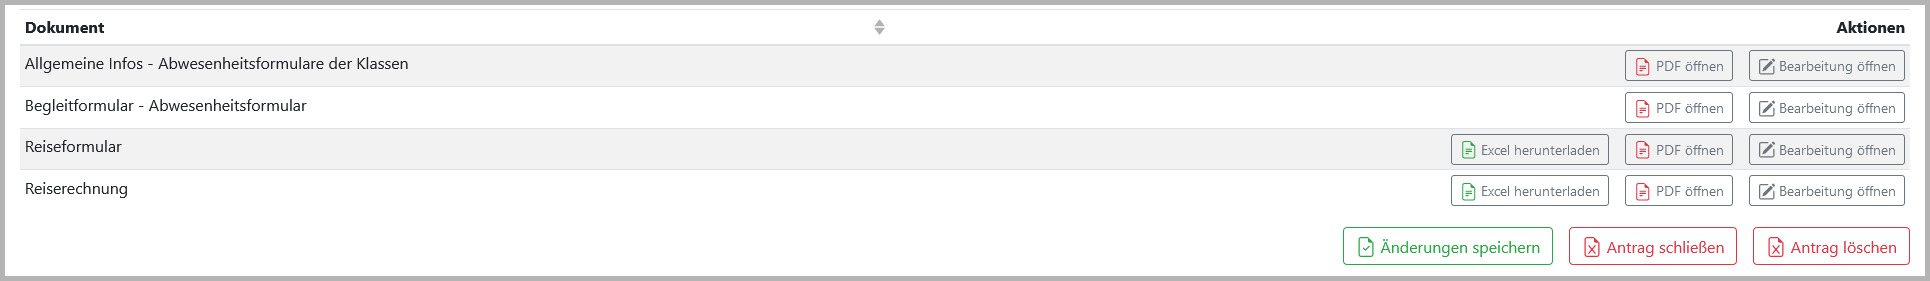
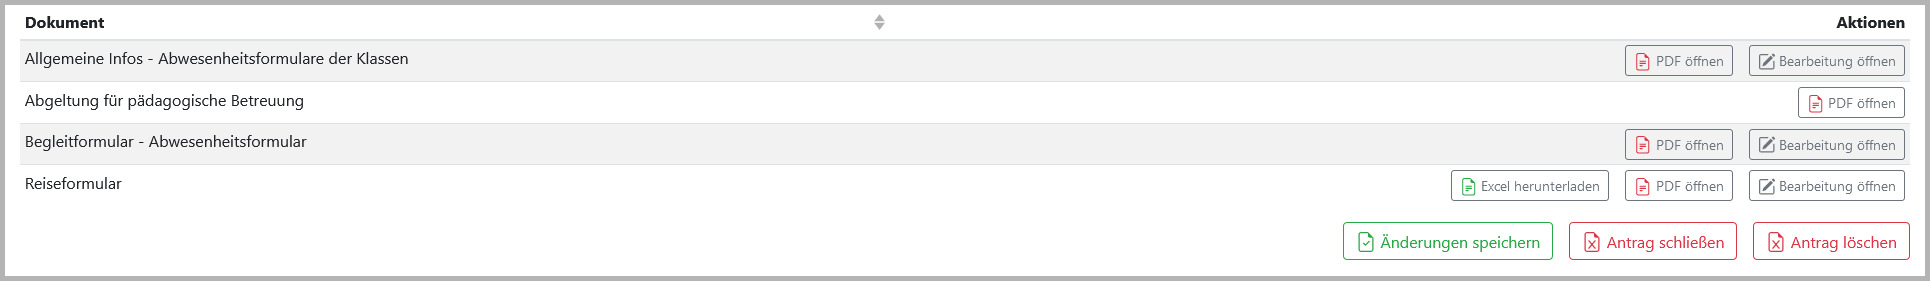
added code and updated pictures; added subsection Antrag einreichen to Antrag erstellen

diff --git a/chapters/implementierung/rfoster.tex b/chapters/implementierung/rfoster.tex
@@ -454,6 +454,19 @@ var data = {		// Das JSON-Objekt mit allen Informationen
 };
 \end{code}
 \captionof{listing}[\textit{JSON} \textit{Sonstiges}-Antrag]{\textit{JSON}-Objekt eines \textit{Sonstiges}-Antrags}~\\
+\subsubsection{Antrag einreichen}
+Sobald der Benutzer auf den "Einreichen"-Knopf drückt, wird das \textit{JSON}-Objekt erstellt und an das Backend gesendet. Dies erfolgt mit folgendem Code:
+\begin{code}{js}
+	axios.post(this.url + "/createApplication", // Es wird eine createApplication-Anfrage an das Backend gesendet
+	{
+		headers: {
+			Authorization: "Basic " + this.token
+		}
+	},
+	data // Der Antrag mit den eingegebenen Daten wird mit der Anfrage gesendet
+	)
+\end{code}
+\captionof{listing}[Antrag einreichen]{Beispiel um einen Antrag im Backend zu erstellen}~\\
 \newpage
 \subsection{Antrag Ansicht}
 \label{sec:antrag_ansicht}
@@ -492,7 +505,25 @@ In einem \textit{Sonstiges}-Antrag werden Informationen über den Grund des Antr
 \paragraph{Reiseformular}~\\
 Ein Reiseformular wird bei den meisten Arten von Antrag erstellt. In einem Reiseformular werden Informationen über den Lehrer und über dessen An- und Abreise gespeichert.
 \paragraph{Reiserechnung}~\\
-Eine Reiserechnung wird bei den meisten Arten von Antrag erstellt. In einer Reiserechnung werden Informationen über die Kosten des Antrags gespeichert und wie diese entstanden sind. Des weiteren können Belege hochgeladen werden, um diese dem Antrag zu hinterlegen.
+Eine Reiserechnung wird bei den meisten Arten von Antrag erstellt. In einer Reiserechnung werden Informationen über die Kosten des Antrags gespeichert und wie diese entstanden sind. Des weiteren können Belege hochgeladen werden, um diese dem Antrag zu hinterlegen. Ein Beleg wird mit folgendem Code hochgeladen:
+\begin{code}{js}
+	axios.post(this.url + "/saveBillingReceipt",
+	{
+		params: {
+			uuid: this.app.uuid, // Der Antrag wird spezifiziert, für den die Belege hochgeladen werden
+			shortname: this.user.short // Es wird der Lehrer spezifiziert, der die Belege hochlädt
+		}
+	},
+	{
+		headers: {
+			Authorization: "Basic " + this.token
+		}
+	},
+	belege // Die Belege, welche hochgeladen werden
+	)
+\end{code}
+\captionof{listing}[Belege hochladen]{Beispiel um Belege hochzuladen}~
+\newpage
 \subsubsection{Aktionen}
 \paragraph{Excel herunterladen}~\\
 Der Benutzer kann Reiseformulare und Reiserechnungen als Excel-Datei herunterladen. Diese werden mit folgendem Code erstellt und heruntergeladen \cite{down_excel}:
@@ -511,8 +542,7 @@ Der Benutzer kann Reiseformulare und Reiserechnungen als Excel-Datei herunterlad
 	exportLinkElement.click();
 	exportLinkElement.remove();
 \end{code}
-\captionof{listing}[Excel Download]{Excel erstellen und herunterladen}~
-\newpage
+\captionof{listing}[Excel Download]{Excel erstellen und herunterladen}~\\
 \paragraph{PDF öffnen}~\\
 Der Benutzer kann die PDFs der Dokumente öffnen. Die PDFs werden in einem neuen Tab im Browser angezeigt.\\
 Mit folgendem Code wird eine PDF erstellt und in einem neuen Tab geöffnet \cite{sof_pdf}:
@@ -530,13 +560,54 @@ Mit folgendem Code wird eine PDF erstellt und in einem neuen Tab geöffnet \cite
 	"#toolbar=0\&navpanes=0\&scrollbar=0'></embed></body></html>"
 	);
 \end{code}
-\captionof{listing}[PDF erstellen und öffnen]{PDF erstellen und öffnen im Browser}~\\
+\captionof{listing}[PDF erstellen und öffnen]{PDF erstellen und öffnen im Browser}~
+\newpage
 \paragraph{Änderungen speichern}~\\
-Der Benutzer kann die Änderungen eines Antrags speichern. Dies kann in bestimmten Phasen eines Antrags geschehen. Die Änderungen werden an das Backend gesendet, sobald auf den ''Änderungen Speichern''-Knopf gedrückt wird.
+Der Benutzer kann die Änderungen eines Antrags speichern. Dies kann in bestimmten Phasen eines Antrags geschehen. Die Änderungen werden an das Backend gesendet, sobald auf den ''Änderungen Speichern''-Knopf gedrückt wird. Das senden erfolgt mit folgendem Code:
+\begin{code}{js}
+	if (this.belege.length >= 1) {
+		this.sendReceipts(this.belege); // Falls Belege angegeben worden sind, werden diese hochgeladen
+	}
+	if (this.checkProgression()) {
+		this.app.progress = 2;	// Falls alle Begleitlehrer ihre Reiseformulare ausgefüllt haben, wird der Fortschritt auf den nächsten Schritt gesetzt
+	}
+	if (this.checkInvoices()) {
+		this.app.progress = 6; // Falls alle Begleitlehrer ihre Reiserechnungen ausgefüllt haben, wird der Fortschritt auf den nächsten Schritt gesetzt
+	}
+	this.app.last_changed = this.createNewDate(); // Das Datum der letzten Änderung wird im Antrag gespeichert.
+	axios.put(this.url + "/updateApplication?uuid=" + this.app.uuid,
+	{
+		headers: {
+			Authorization: "Basic " + this.token
+		}
+	},
+	this.app // Es wird der neue Antrag (Mit den neuen Änderungen) hochgeladen
+	)
+\end{code}
+\captionof{listing}[Antrag speichern]{Beispiel um die Änderungen eines Antrags zu speichern}~\\
 \paragraph{Antrag schließen}~\\
-Der Leiter eines Antrags kann den Antrag schließen. Sobald der Antrag geschlossen ist, wird dieser im Backend auf den Fortschritt abgeschlossen gesetzt.
+Der Leiter eines Antrags kann den Antrag schließen. Sobald der Antrag geschlossen ist, wird dieser im Backend auf den Fortschritt abgeschlossen gesetzt. Dies wird mit folgendem Code erreicht:
+\begin{code}{js}
+	if (this.app.kind === 0) {	// Der Fortschritt wird je nach Antragsart auf Abgeschlossen gesetzt
+		this.app.progress = 7;
+	} else {
+		this.app.progress = 6;
+	}
+	this.save(); // Der Antrag wird gespeichert
+	this.hideClose(); // Das Modal wird geschlossen
+\end{code}
+\captionof{listing}[Antrag schließen]{Beispiel um einen Antrag zu schließen}~\\
+\newpage
 \paragraph{Antrag löschen}~\\
-Der Leiter eines Antrags kann den Antrag löschen. Sobald auf den Knopf ''Antrag löschen'' gedrückt wird, wird dieser im Backend gelöscht. Der Benutzer wird daraufhin weitergeleitet auf die Startseite.
+Der Leiter eines Antrags kann den Antrag löschen. Sobald auf den Knopf ''Antrag löschen'' gedrückt wird, wird dieser im Backend gelöscht. Der Benutzer wird daraufhin weitergeleitet auf die Startseite. Ein Antrag wird mit folgender Anfrage gelöscht:
+\begin{code}{js}
+	axios.delete(this.url + "/deleteApplication?uuid=" + this.app.uuid, { // Es wird ein Delete-Request an das Backend gesendet
+		headers: {
+			Authorization: "Basic " + this.token
+		}
+	})
+\end{code}
+\captionof{listing}[Antrag löschen]{Beispiel um einen Antrag zu löschen}~\\
 \newpage
 \subsection{Antrag Übersicht}
 \label{sec:antrag_uebersicht}
